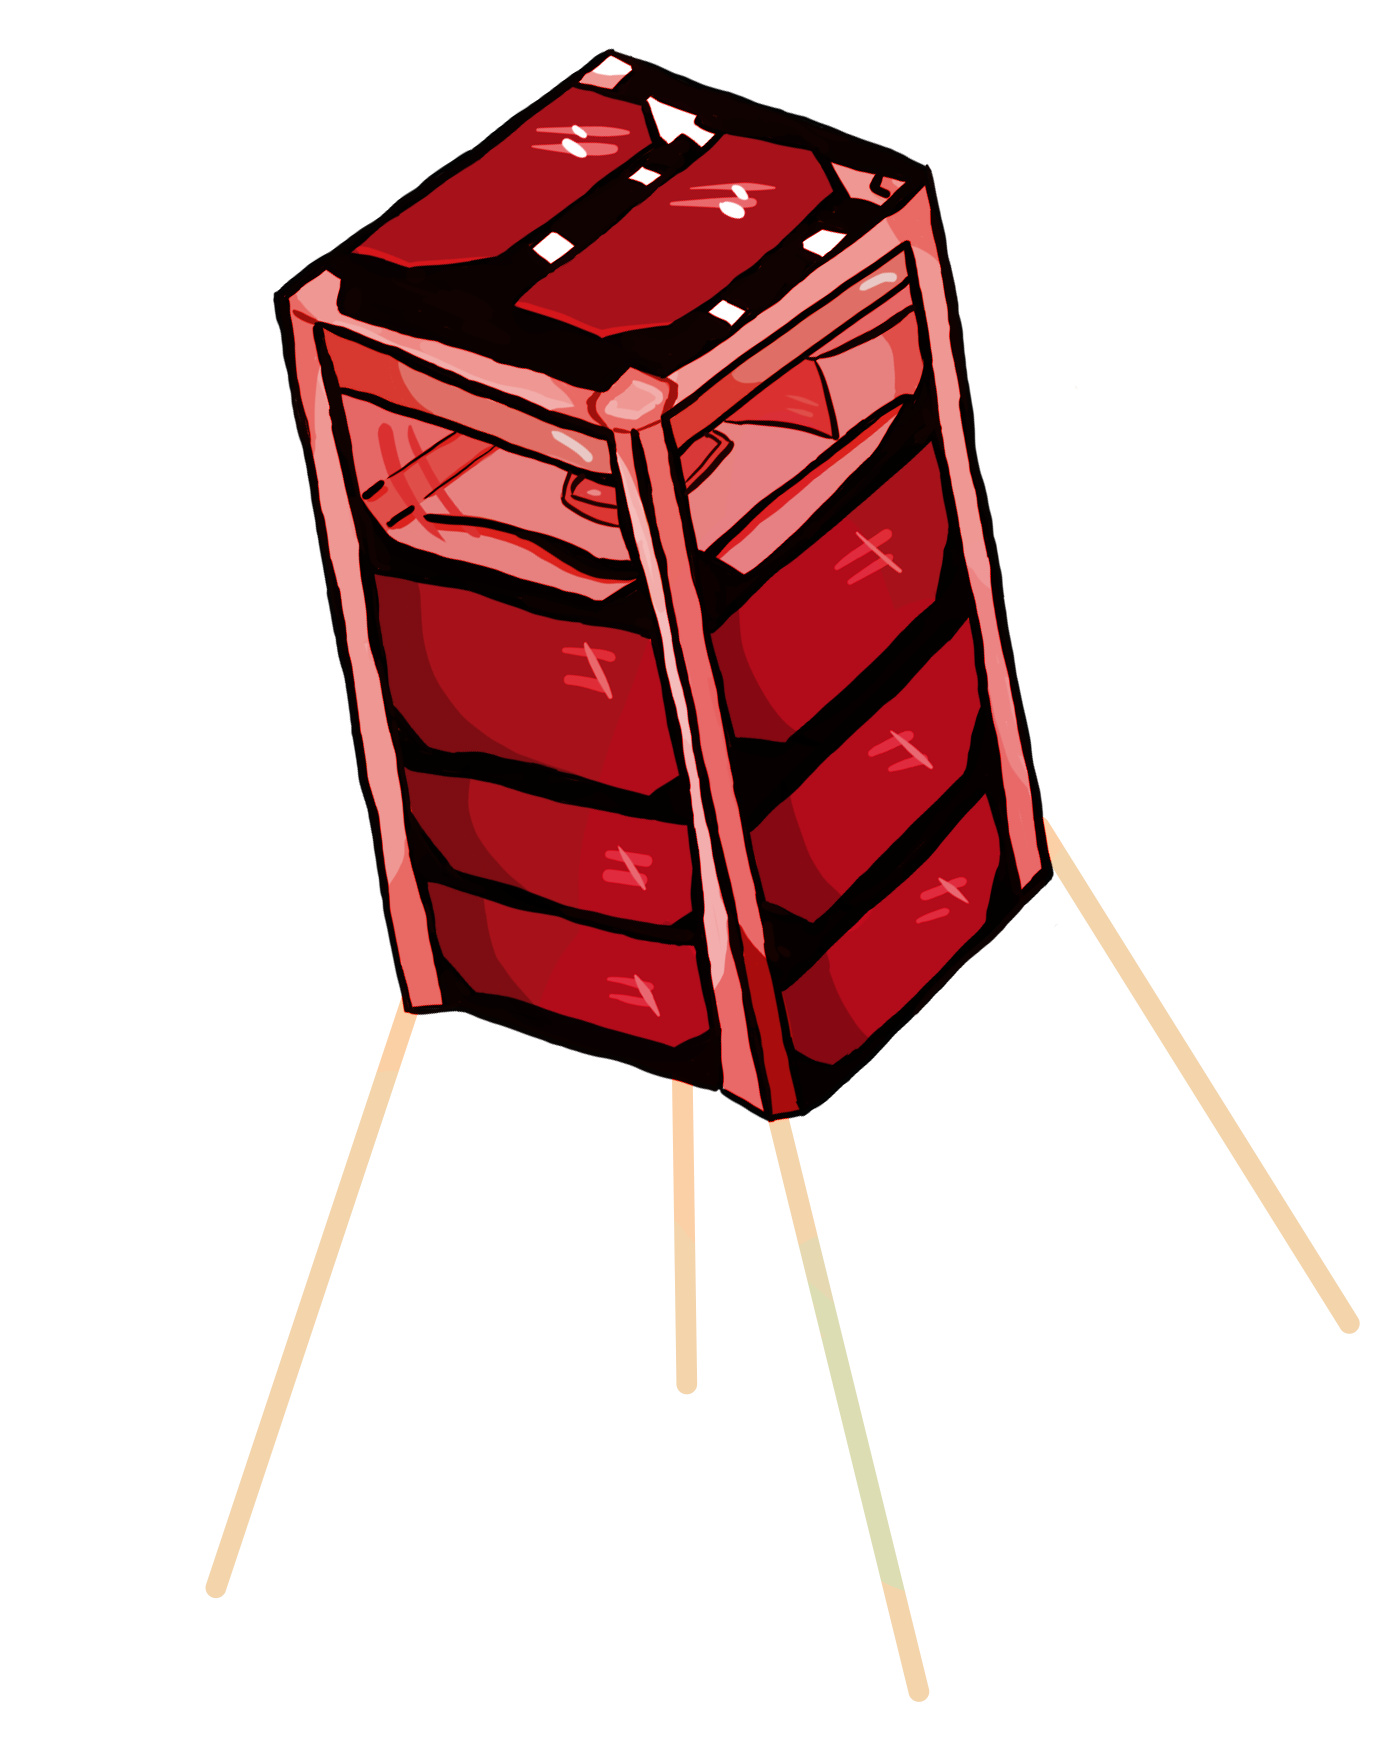
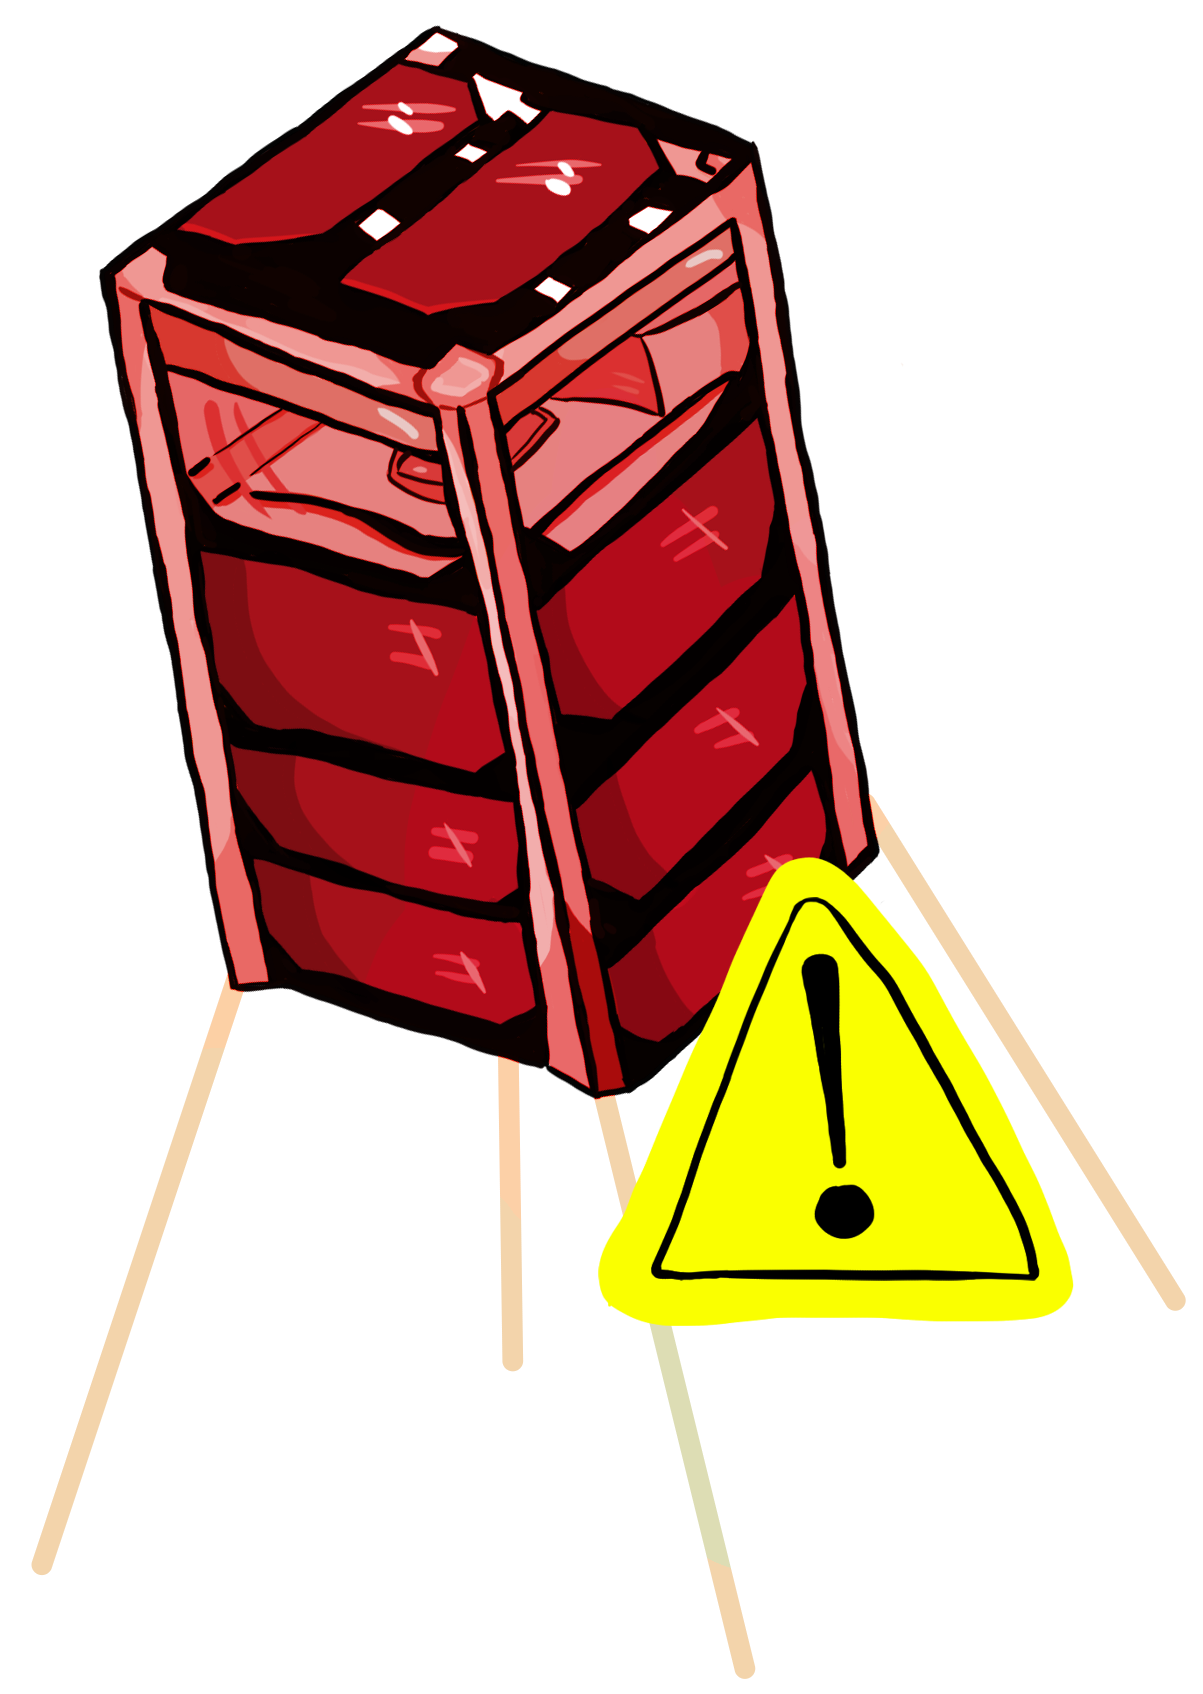
Emergency images
Images for PLD-OBC EMERGENCY MODE  window and for CRASH MODE.

diff --git a/sim_rtos_pldobc_emergency.py b/sim_rtos_pldobc_emergency.py
@@ -19,13 +19,15 @@
 #       - Mande mensajes diciendo "cómo está", pidiendo ayuda
 #   Crash mode: 5.6.26
 #       - No funciona el despliegue del deorbit en el no comms
+#   Imágenes: 12.6.26
 
 from tkinter import Toplevel, Label, messagebox as msg, Button, scrolledtext as st
 from random import randint
 from sim_rtos_constantes import FONT_LETRA_EMERGENCY, COLOR_LETRA_EMERGENCY, TICK
 from sim_rtos_constantes import FONT_LETRITA_EMERGENCY, COLOR_FONDO_EMERGENCY, ORBITA
 from sim_rtos_constantes import COLOR_LETRA_BOTON, COLOR_BOTON_EMERGENCY
-from sim_rtos_constantes import RUTA_EMERGENCY_1
+from sim_rtos_constantes import RUTA_EMERGENCY_1, RUTA_EMERGENCY_2, RUTA_EMERGENCY_3
+from sim_rtos_constantes import RUTA_EMERGENCY_4, RUTA_EMERGENCY_5, RUTA_EMERGENCY_6
 from sim_rtos_constantes import hacer_imagen
 from sim_rtos_tarea import Tarea
 
@@ -46,6 +48,11 @@ class PLDOBC_EMERGENCY_CONTROL_MODE(Toplevel): # Será una ventanita que se abri
                 
         # --- ILUSTRACIONES ---
         self.imagen_ayuda = hacer_imagen(RUTA_EMERGENCY_1,scaling=5.8)
+        self.imagen_fotos = hacer_imagen(RUTA_EMERGENCY_2,scaling=5.8)
+        self.imagen_verificar = hacer_imagen(RUTA_EMERGENCY_3,scaling=5.8)
+        self.imagen_deorbit = hacer_imagen(RUTA_EMERGENCY_4,scaling=6.7)
+        self.imagen_deorbit_fuego = hacer_imagen(RUTA_EMERGENCY_5,scaling=8.8)
+        self.imagen_satelite_fuego = hacer_imagen(RUTA_EMERGENCY_6,scaling=6.8)
         
         # label para poner imagen
         self.muestra_imagenes : Label = Label(
@@ -97,7 +104,7 @@ class PLDOBC_EMERGENCY_CONTROL_MODE(Toplevel): # Será una ventanita que se abri
             estado="a",
             tiempo_restante=6_000,
             tiempo_lleva=0,
-            imagen=self.imagen_ayuda, # por ahora,
+            imagen=self.imagen_fotos,
             label_imagen=self.muestra_imagenes
         )
         tVerificarFotos: Tarea = Tarea(
@@ -106,7 +113,7 @@ class PLDOBC_EMERGENCY_CONTROL_MODE(Toplevel): # Será una ventanita que se abri
             estado="a",
             tiempo_restante=5_000,
             tiempo_lleva=0,
-            imagen=self.imagen_ayuda, # por ahora,
+            imagen=self.imagen_verificar,
             label_imagen=self.muestra_imagenes
         )
         tRevivirCompu : Tarea = Tarea(
@@ -133,7 +140,7 @@ class PLDOBC_EMERGENCY_CONTROL_MODE(Toplevel): # Será una ventanita que se abri
             estado="a",
             tiempo_restante=10_000,
             tiempo_lleva=0,
-            imagen=self.imagen_ayuda, # por ahora,
+            imagen=self.imagen_deorbit,
             label_imagen=self.muestra_imagenes
         )
         
@@ -213,7 +220,19 @@ class PLDOBC_EMERGENCY_CONTROL_MODE(Toplevel): # Será una ventanita que se abri
             # Tarea finalizada
             mensaje = f"El satélite se ha deorbitado exitosamente"
             self.cerrar_ventana=True # Ahora se cerrará en la siguiente
+                       
         else:
+            
+            if self.orbita <= 300 and self.intentos_para_revivir<=20: # se usa el mecanismo normal
+                self.tDeorbit.imagen = self.imagen_deorbit_fuego
+                
+            # casos de shut down en crash mode
+            if self.intentos_para_revivir>20 and self.orbita>300:
+                self.tDeorbit.imagen = self.imagen_ayuda # se deorbita sin mecanismo deorbit
+                
+            if self.intentos_para_revivir>20 and self.orbita<= 300:
+                self.tDeorbit.imagen = self.imagen_satelite_fuego #se quema el satélite solito
+            
             self.tDeorbit.ejecutar()
             # Ir decrementando la órbita cada tick
             
@@ -232,6 +251,7 @@ class PLDOBC_EMERGENCY_CONTROL_MODE(Toplevel): # Será una ventanita que se abri
     def informar_que_esta_mal(self):
         mensaje = f"AYUDA: La computadora principal no ha funcionado por {self.tiempo//1000} segundos"
         self.meter_mensaje(mensaje,self.muestra_mensajes)
+        self.muestra_imagenes.config(image=self.imagen_ayuda) # para que la muestre en ese tick
         
     def ofuscar(self,mensaje:str)->str:
         lista_caracteres_mensaje = list(mensaje)

diff --git a/sim_rtos_scheduler.py b/sim_rtos_scheduler.py
@@ -37,9 +37,10 @@
 #         y que se deorbite así sin el mecanismo (proceso más lento)
 #   Imágenes para operaciones nominales: 11.6.26
 #       - para cada tarea
+#   Imágenes para CRASH MODE: 12.6.26
 # AJUSTES PENDIENTES:
 #   - el label de arriba ya no muestre comando, que muestre modo de operación
-#   - tipo modo de operación nominal, modo de operación payload1...
+#     tipo modo de operación nominal, modo de operación payload1...
 
 from tkinter import Tk, Label, Button
 from tkinter import scrolledtext as st, Frame, messagebox as msg
@@ -55,7 +56,7 @@ from sim_rtos_constantes import TICK, miliseg_a_seg, hacer_imagen
 from sim_rtos_constantes import RUTA_SATELITE_1_SCHED, RUTA_SATELITE_2_SCHED
 from sim_rtos_constantes import RUTA_SATELITE_3_SCHED, RUTA_SATELITE_4_SCHED
 from sim_rtos_constantes import RUTA_SATELITE_5_SCHED, RUTA_SATELITE_6_SCHED
-from sim_rtos_constantes import RUTA_SATELITE_7_SCHED
+from sim_rtos_constantes import RUTA_SATELITE_7_SCHED, RUTA_SATELITE_8_SCHED
 from sim_rtos_tarea import Tarea
 from sim_rtos_pldobc_emergency import PLDOBC_EMERGENCY_CONTROL_MODE
         
@@ -161,6 +162,7 @@ class Scheduler_Ventana(Tk):
         self.satelite_deorbit_fuego = hacer_imagen(RUTA_SATELITE_5_SCHED, scaling=9.2)
         self.satelite_verifica = hacer_imagen(RUTA_SATELITE_6_SCHED, scaling=5.5)
         self.satelite_datos = hacer_imagen(RUTA_SATELITE_7_SCHED,scaling=5.5)
+        self.satelite_fuego = hacer_imagen(RUTA_SATELITE_8_SCHED,scaling=7)
                 
         # Label para mostrar las ilustraciones
         self.muestra_imagenes : Label = Label(
@@ -282,8 +284,8 @@ class Scheduler_Ventana(Tk):
         if not respuesta:
             return
         
-        #1 de cada 4 no funciona
-        posibilidad = randint(1,4)
+        #1 de cada 3 no funciona
+        posibilidad = randint(1,3)
         if posibilidad==1:
             #Ingreso a crash mode
             
@@ -376,8 +378,15 @@ class Scheduler_Ventana(Tk):
             mensaje = f"El satélite se ha deorbitado exitosamente"
             self.cerrar_ventana=True # Ahora se cerrará en la siguiente
         else:
-            if self.orbita<=300:
+            if self.orbita<=300 and self.intentos_para_revivir<=20:
                 self.tDeorbit.imagen = self.satelite_deorbit_fuego 
+            
+            # casos de shut down en crash mode
+            if self.intentos_para_revivir>20 and self.orbita>300:
+                self.tDeorbit.imagen = self.satelite_antenas # se deorbita sin mecanismo deorbit
+                
+            if self.intentos_para_revivir>20 and self.orbita<= 300:
+                self.tDeorbit.imagen = self.satelite_fuego #se quema el satélite solito
             
             self.tDeorbit.ejecutar()
             # Ir decrementando la órbita cada tick

diff --git a/sim_rtos_constantes.py b/sim_rtos_constantes.py
@@ -21,6 +21,7 @@
 #   Rutas de imagenes: 11.6.26
 #       - Operaciones nominales del scheduler
 #       - Introductorias en el select
+#   Rutas de imagenes emergencia: 12.6.26
 
 import os
 from PIL import Image, ImageTk
@@ -50,7 +51,7 @@ FONT_LETRITA_SELECT = "Arial 16 bold"
 COLOR_LETRITA_SELECT = "#32347B"
 
 # Constantes de colores y fonts del cosito de emergencia
-COLOR_FONDO_EMERGENCY = "#F72128"
+COLOR_FONDO_EMERGENCY = "#F26A6E"
 COLOR_LETRA_EMERGENCY = "#530407"
 COLOR_BOTON_EMERGENCY = "#302929"
 FONT_LETRA_EMERGENCY = "Helvetica 20 bold"
@@ -67,12 +68,18 @@ RUTA_SATELITE_4_SCHED = os.path.join(CARPETA_ACTUAL, "scheduler_quetzal2_deorbit
 RUTA_SATELITE_5_SCHED = os.path.join(CARPETA_ACTUAL, "scheduler_quetzal2_deorbit_fuego.png")
 RUTA_SATELITE_6_SCHED = os.path.join(CARPETA_ACTUAL, "scheduler_quetzal2_verificar.png")
 RUTA_SATELITE_7_SCHED = os.path.join(CARPETA_ACTUAL, "scheduler_quetzal2_datos.png")
+RUTA_SATELITE_8_SCHED = os.path.join(CARPETA_ACTUAL, "scheduler_antenas_fuego.png")
 
 RUTA_SATELITE_1_SELECT = os.path.join(CARPETA_ACTUAL, "select_quetzal2_simple.png")
 RUTA_SATELITE_2_SELECT = os.path.join(CARPETA_ACTUAL, "select_quetzal2_antenas.png")
 RUTA_SATELITE_4_SELECT = os.path.join(CARPETA_ACTUAL, "select_deorbit_fuego.png")
 
 RUTA_EMERGENCY_1 = os.path.join(CARPETA_ACTUAL, "emergency_help.png")
+RUTA_EMERGENCY_2 = os.path.join(CARPETA_ACTUAL, "emergency_camara.png")
+RUTA_EMERGENCY_3 = os.path.join(CARPETA_ACTUAL, "emergency_verificar.png")
+RUTA_EMERGENCY_4 = os.path.join(CARPETA_ACTUAL, "emergency_deorbit.png")
+RUTA_EMERGENCY_5 = os.path.join(CARPETA_ACTUAL, "emergency_deorbit_fuego.png")
+RUTA_EMERGENCY_6 = os.path.join(CARPETA_ACTUAL, "emergency_antenas_fuego.png")
 
 def hacer_imagen (ruta:str,scaling:float)->ImageTk.PhotoImage:
     # retorna la imagen con el tipo de dato y dimensiones correctas